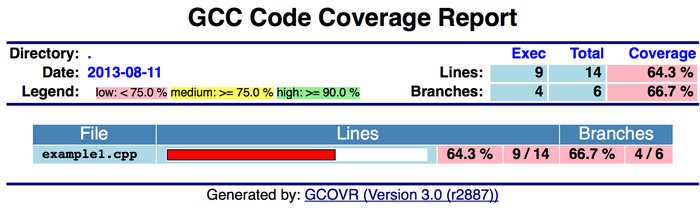
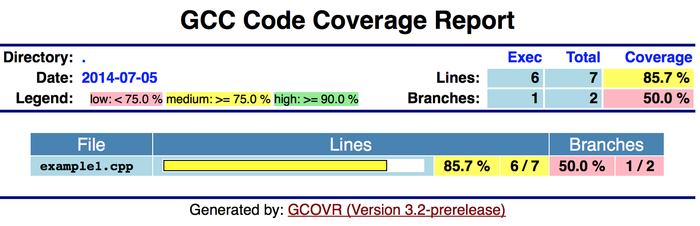
Baseline updates plug test file changes.
Example1 was changed to use the shorted source file in
example2.  The example5.sh script was changed to use the example1
source file.

diff --git a/doc/examples/example1/example1.cpp b/doc/examples/example1/example1.cpp
@@ -1,8 +1,4 @@
-// example1.cpp
-
-#include <iostream>
-
-#define MACRO()   if (1<0) foo(-1); else foo(1);
+// example2.cpp
 
 int foo(int param)
 {
@@ -16,23 +12,8 @@ int foo(int param)
     }
 }
 
-void bar(int param)
-{
-    if (param)
-    {
-        std::cout << "param not null." << std::endl;
-    }
-    else
-    {
-        std::cout << "param is null." << std::endl;
-    }
-}
-
-
 int main(int argc, char* argv[])
 {
-    MACRO()
-
     foo(0);
 
     return 0;
